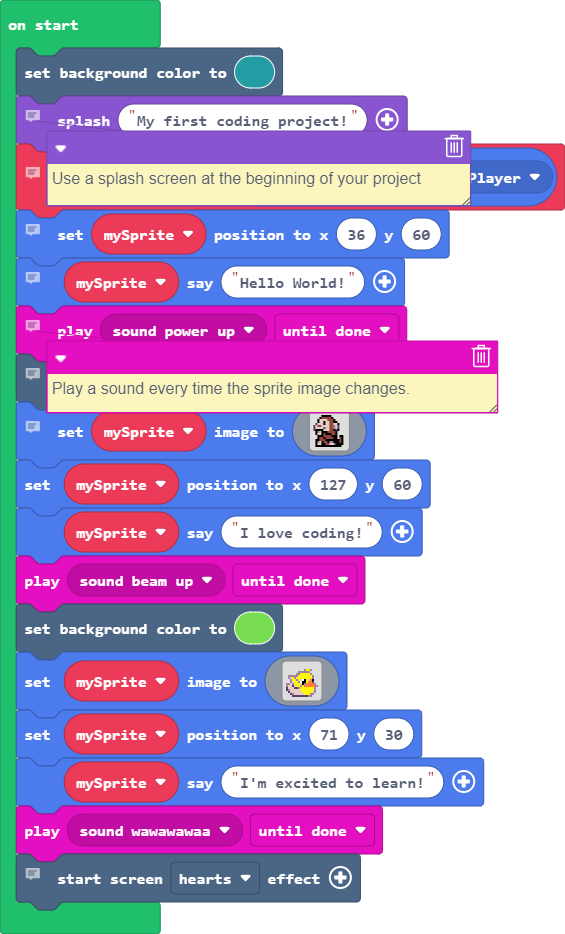
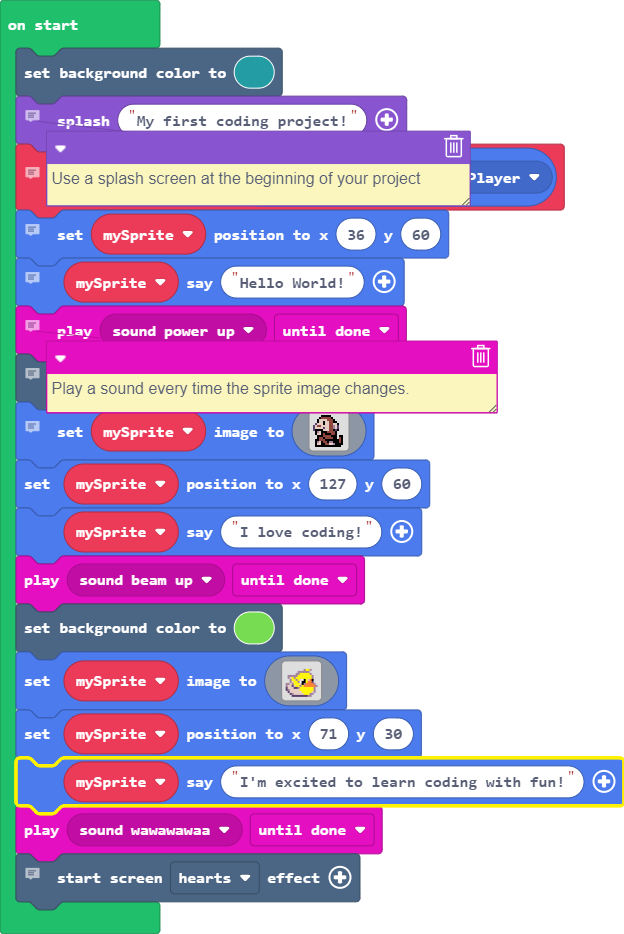
changes

Changed region(s): [[0.0, 0.0, 1.0, 1.0], [0.7522, 0.3415, 0.9027, 0.4657]]

diff --git a/main.ts b/main.ts
@@ -73,7 +73,7 @@ mySprite.setImage(img`
     . . . c c c c c c c c b b . . . 
     `)
 mySprite.setPosition(71, 30)
-mySprite.say("I'm excited to learn!")
+mySprite.say("I'm excited to learn coding with fun!")
 music.play(music.melodyPlayable(music.wawawawaa), music.PlaybackMode.UntilDone)
 // Use a screen effect at the end of your project.
 effects.hearts.startScreenEffect()
